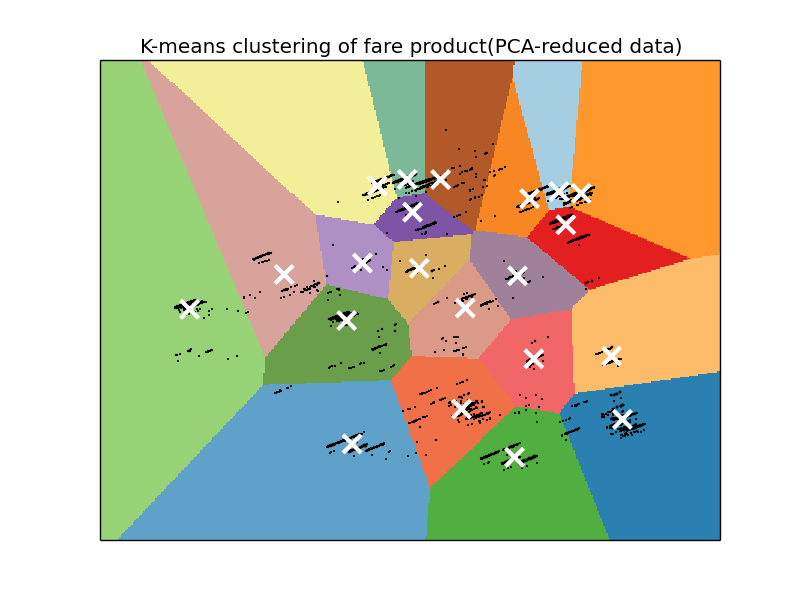
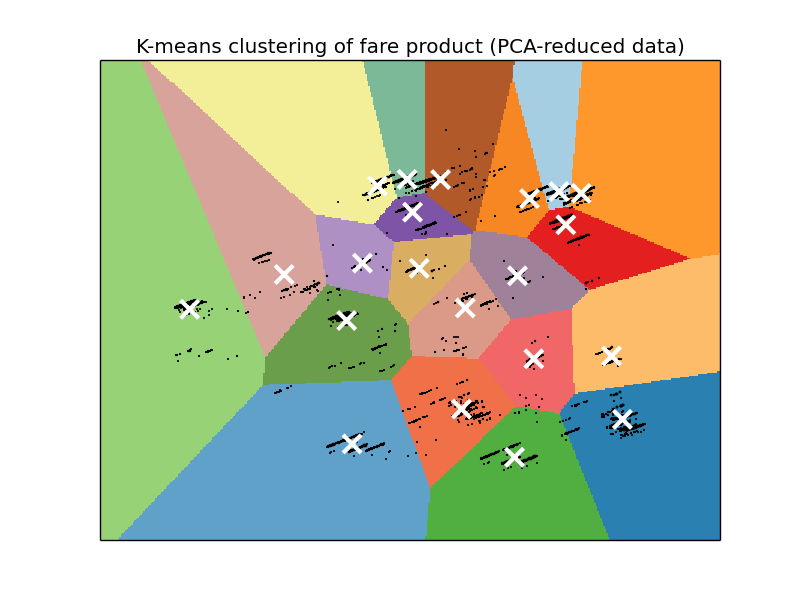
updated clustering analyses

Changed region(s): [[0.1562, 0.06, 0.875, 0.09]]

diff --git a/predict/clusteringTransactions.py b/predict/clusteringTransactions.py
@@ -68,18 +68,22 @@ bench_k_means(KMeans(init='k-means++', n_clusters=n_fareProduct, n_init=10),
 bench_k_means(KMeans(init='random', n_clusters=n_fareProduct, n_init=10),
               name="random", data=df)
 
-# in this case the seeding of the centers is deterministic, hence we run the
-# kmeans algorithm only once with n_init=1
 pca = PCA(n_components=n_fareProduct).fit(df)
+
+
 bench_k_means(KMeans(init=pca.components_, n_clusters=n_fareProduct, n_init=1),
               name="PCA-based",
               data=df)
 print(79 * '_')
 
 # Visualize the results on PCA-reduced data
-reduced_data = PCA(n_components=2).fit_transform(df)
+pcaDecomp =  PCA(n_components=2)
+reduced_data = pcaDecomp.fit_transform(df)
 kmeans = KMeans(init='k-means++', n_clusters=n_fareProduct, n_init=10)
 kmeans.fit(reduced_data)
+
+print("Variance explained by first two principal components: ")
+print(pcaDecomp.explained_variance_ratio_)
 
 # Step size of the mesh. Decrease to increase the quality of the VQ.
 h = .02     # point in the mesh [x_min, m_max]x[y_min, y_max].
@@ -106,7 +110,7 @@ centroids = kmeans.cluster_centers_
 plt.scatter(centroids[:, 0], centroids[:, 1],
             marker='x', s=169, linewidths=3,
             color='w', zorder=10)
-plt.title('K-means clustering of fare product(PCA-reduced data)')
+plt.title('K-means clustering of fare product (PCA-reduced data)')
 plt.xlim(x_min, x_max)
 plt.ylim(y_min, y_max)
 plt.xticks(())

diff --git a/predict/clusteringStations.py b/predict/clusteringStations.py
@@ -78,9 +78,13 @@ bench_k_means(KMeans(init=pca.components_, n_clusters=n_stations, n_init=1),
 print(79 * '_')
 
 # Visualize the results on PCA-reduced data
-reduced_data = PCA(n_components=2).fit_transform(df)
+pcaDecomp =  PCA(n_components=2)
+reduced_data = pcaDecomp.fit_transform(df)
 kmeans = KMeans(init='k-means++', n_clusters=n_stations, n_init=10)
 kmeans.fit(reduced_data)
+
+print("Variance explained by first two principal components: ")
+print(pcaDecomp.explained_variance_ratio_)
 
 # Step size of the mesh. Decrease to increase the quality of the VQ.
 h = .02     # point in the mesh [x_min, m_max]x[y_min, y_max].
